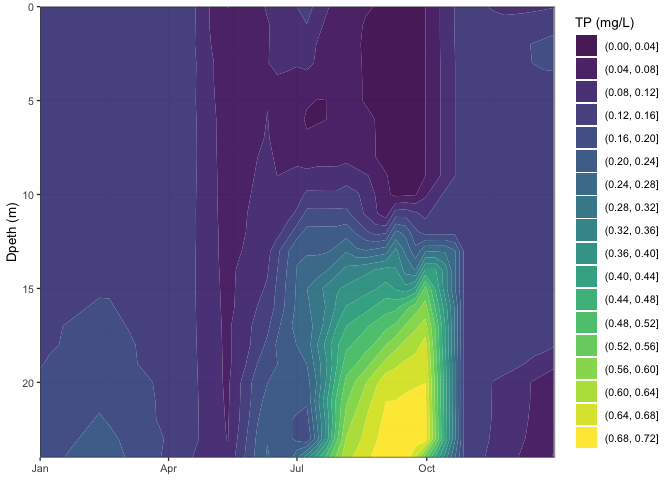
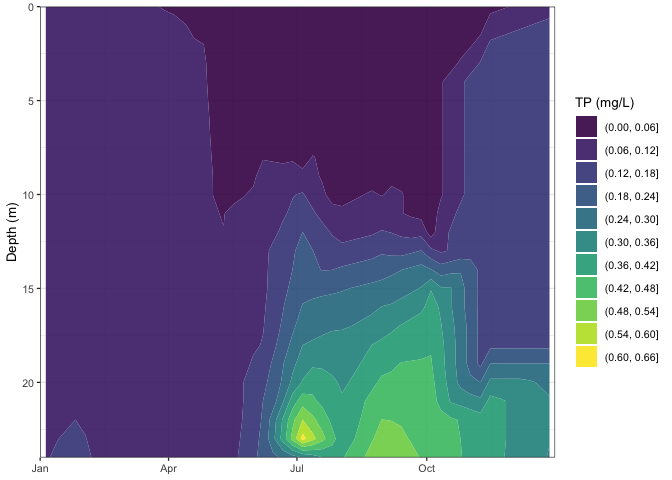
updated README

diff --git a/README.md b/README.md
@@ -41,9 +41,7 @@ LTERions = loadLTERions() # Download NTL LTER data from EDI
 LTERsecchi = loadLTERsecchi() # Download NTL LTER data from EDI
 ```
 
-### Additionally, these datasets can be viewed at
-
-### <https://github.com/hdugan/NTLviewer>
+### Additionally, these datasets can be viewed at: <https://github.com/hdugan/NTLviewer>
 
 ## Variables available for plotting
 
@@ -59,7 +57,8 @@ availableVars.1D()
 
 ``` r
 # printFigs = TRUE to output series of interpolated profiles (but slower)
-# See help file for parameter descripts
+# See help file for parameter descriptions
+# 
 df.ME = weeklyInterpolate(lakeAbr = 'ME', var = 'totpuf_sloh', dataset = LTERnutrients, maxdepth = 24, 
                           constrainMethod = 'zero', setThreshold = 0.1, printFigs = F)
 ```
@@ -76,23 +75,46 @@ plotTimeseries(df.interpolated = df.ME$weeklyInterpolated, var = 'totpuf_sloh')
 
 ``` r
 # With observations
-plotTimeseries.year(df.interpolated = df.ME$weeklyInterpolated, observations = df.ME$observations,  var = 'totpuf_sloh', chooseYear = 2008)
+plotTimeseries.year(df.interpolated = df.ME$weeklyInterpolated, observations = df.ME$observations,  
+                    var = 'totpuf_sloh', chooseYear = 2008)
 ```
 
 ![](man/figures/README-unnamed-chunk-5-1.png)<!-- -->
 
 ``` r
 
-# Without observations, but adding legend title 
-plotTimeseries.year(df.interpolated = df.ME$weeklyInterpolated, var = 'totpuf_sloh', chooseYear = 2008, legend.title = 'TP (µg/L)')
+# Without observations, but adding legend title and decreasing binsize 
+plotTimeseries.year(df.interpolated = df.ME$weeklyInterpolated, var = 'totpuf_sloh', binsize = 0.06,
+                    chooseYear = 2016, legend.title = 'TP (mg/L)')
 ```
 
 ![](man/figures/README-unnamed-chunk-5-2.png)<!-- -->
 
+## Customize plots
+
+Since these functions return a ggplot, they can be additionally
+customized with ggplot options. For example:
+
+``` r
+library(MetBrewer)
+library(ggplot2)
+
+plotTimeseries.year(df.interpolated = df.ME$weeklyInterpolated,
+                    var = 'totpuf_sloh', chooseYear = 2015, binsize = 0.1, legend.title = 'TP (mg/L)') +
+  scale_fill_manual(values=met.brewer("Hokusai2", 7)) + # override color default
+  geom_point(data = df.ME$observations, aes(x = sampledate, y = depth), size = 1, fill = 'gold', 
+             shape = 22, stroke = 0.2) + # sampling observations
+  labs(title = 'Lake Mendota, total phosphorus 2015', x = 'Date') +
+  theme_minimal(base_size = 10)
+```
+
+![](man/figures/README-unnamed-chunk-6-1.png)<!-- -->
+
 ## Calculate mass at annual or weekly timescales
 
 ``` r
-df.mass.annual = calcMass(df.ME$weeklyInterpolated,lakeAbr = 'ME', time.res = 'annual', conversion = 1e6)
+# Conversion from g to kg
+df.mass.annual = calcMass(df.ME$weeklyInterpolated,lakeAbr = 'ME', time.res = 'annual', conversion = 1e3)
 ```
 
 ## Example of plotting annual mass
@@ -109,29 +131,29 @@ ggplot(df.mass.annual, aes(x = year, y = mass)) +
   theme(axis.title.x = element_blank())
 ```
 
-![](man/figures/README-unnamed-chunk-7-1.png)<!-- -->
+![](man/figures/README-unnamed-chunk-8-1.png)<!-- -->
 
 ## Decompose weekly mass timeseries to analyse trends and seasonality
 
 ``` r
-df.mass = calcMass(df.ME$weeklyInterpolated,lakeAbr = 'ME', time.res = 'weekly', conversion = 1e6)
+df.mass = calcMass(df.ME$weeklyInterpolated,lakeAbr = 'ME', time.res = 'weekly', conversion = 1e3)
 
 decomposeTS(df.mass, lakeAbr = 'ME', var = 'totpuf_sloh')
 ```
 
-![](man/figures/README-unnamed-chunk-8-1.png)<!-- -->
+![](man/figures/README-unnamed-chunk-9-1.png)<!-- -->
 
     #> # A tibble: 4,904 × 3
-    #>    date       decompose value
-    #>    <date>     <fct>     <dbl>
-    #>  1 1995-05-09 var.mass   43.1
-    #>  2 1995-05-09 var.trend  NA  
-    #>  3 1995-05-09 var.seas  -13.2
-    #>  4 1995-05-09 var.err    NA  
-    #>  5 1995-05-16 var.mass   44.0
-    #>  6 1995-05-16 var.trend  NA  
-    #>  7 1995-05-16 var.seas  -13.6
-    #>  8 1995-05-16 var.err    NA  
-    #>  9 1995-05-23 var.mass   45.0
-    #> 10 1995-05-23 var.trend  NA  
+    #>    date       decompose   value
+    #>    <date>     <fct>       <dbl>
+    #>  1 1995-05-09 var.mass   43130.
+    #>  2 1995-05-09 var.trend     NA 
+    #>  3 1995-05-09 var.seas  -13151.
+    #>  4 1995-05-09 var.err       NA 
+    #>  5 1995-05-16 var.mass   43996.
+    #>  6 1995-05-16 var.trend     NA 
+    #>  7 1995-05-16 var.seas  -13643.
+    #>  8 1995-05-16 var.err       NA 
+    #>  9 1995-05-23 var.mass   44957.
+    #> 10 1995-05-23 var.trend     NA 
     #> # … with 4,894 more rows
